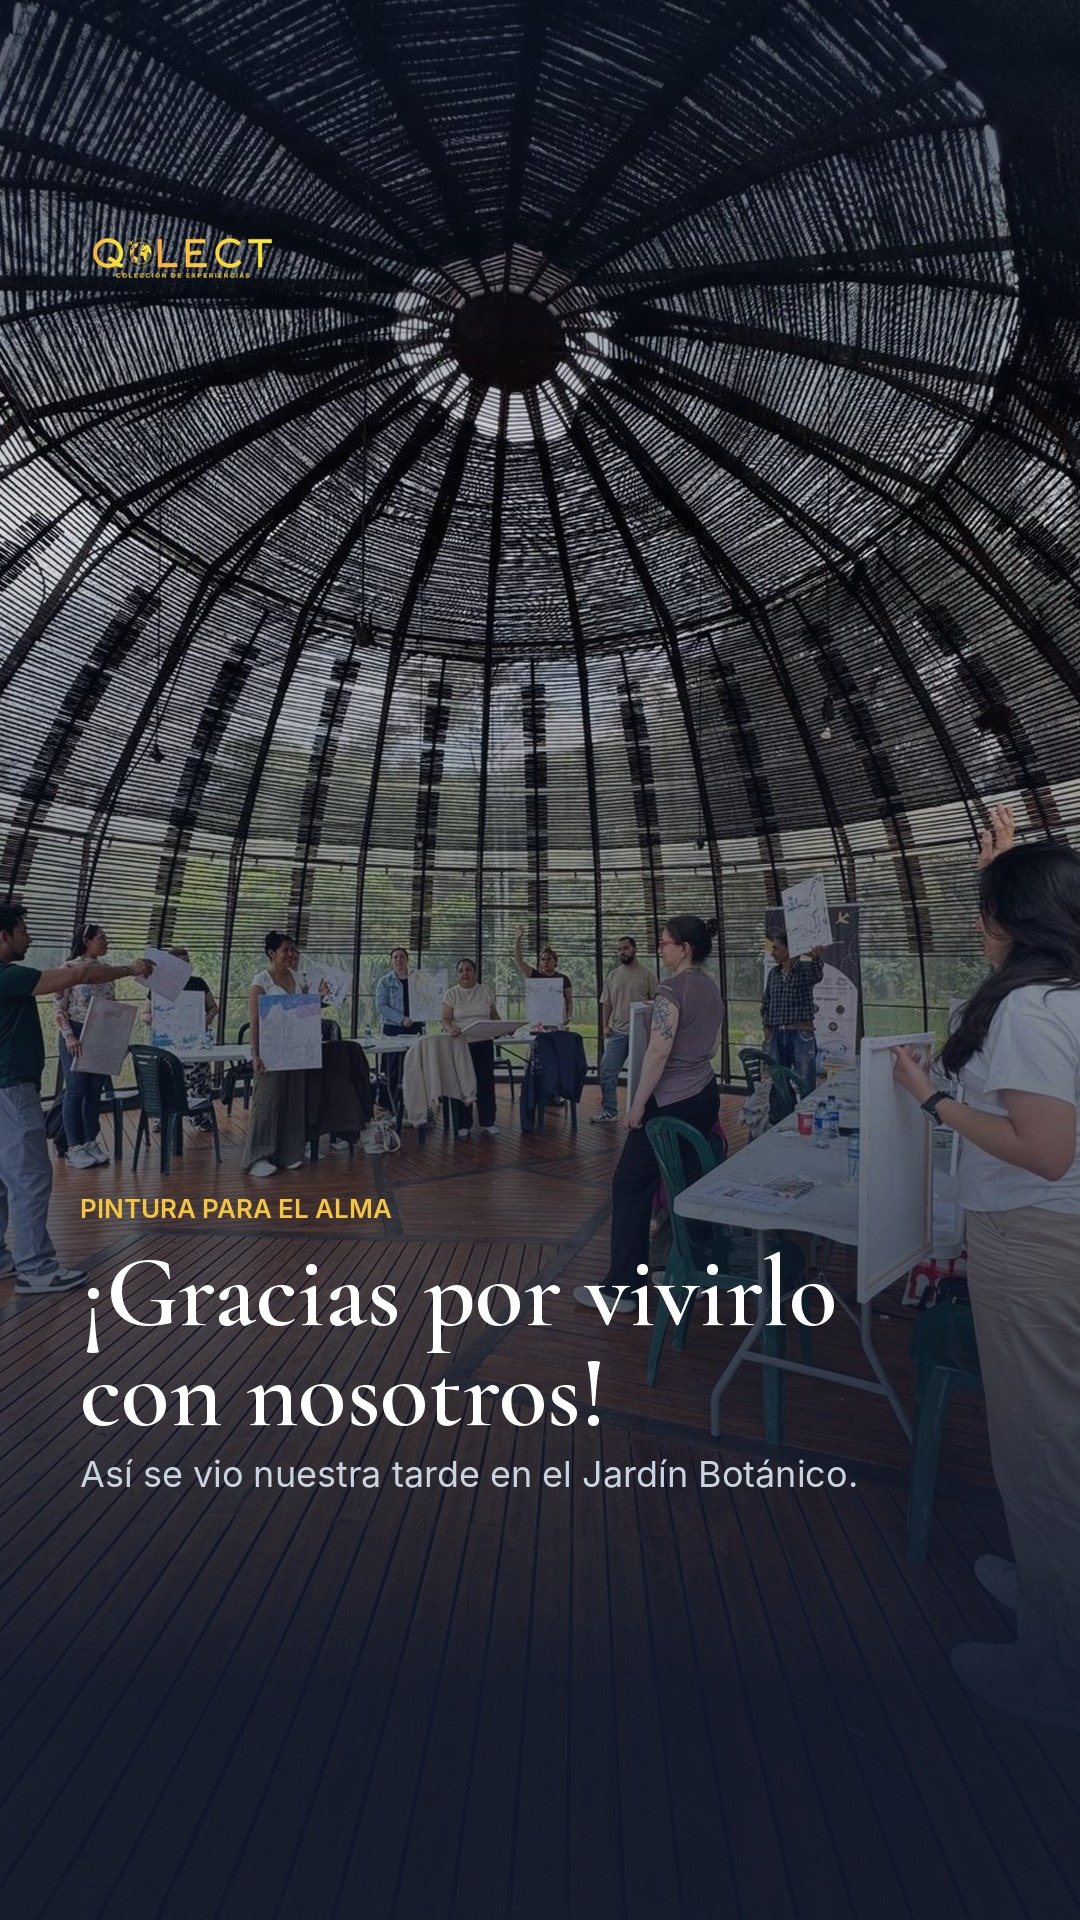
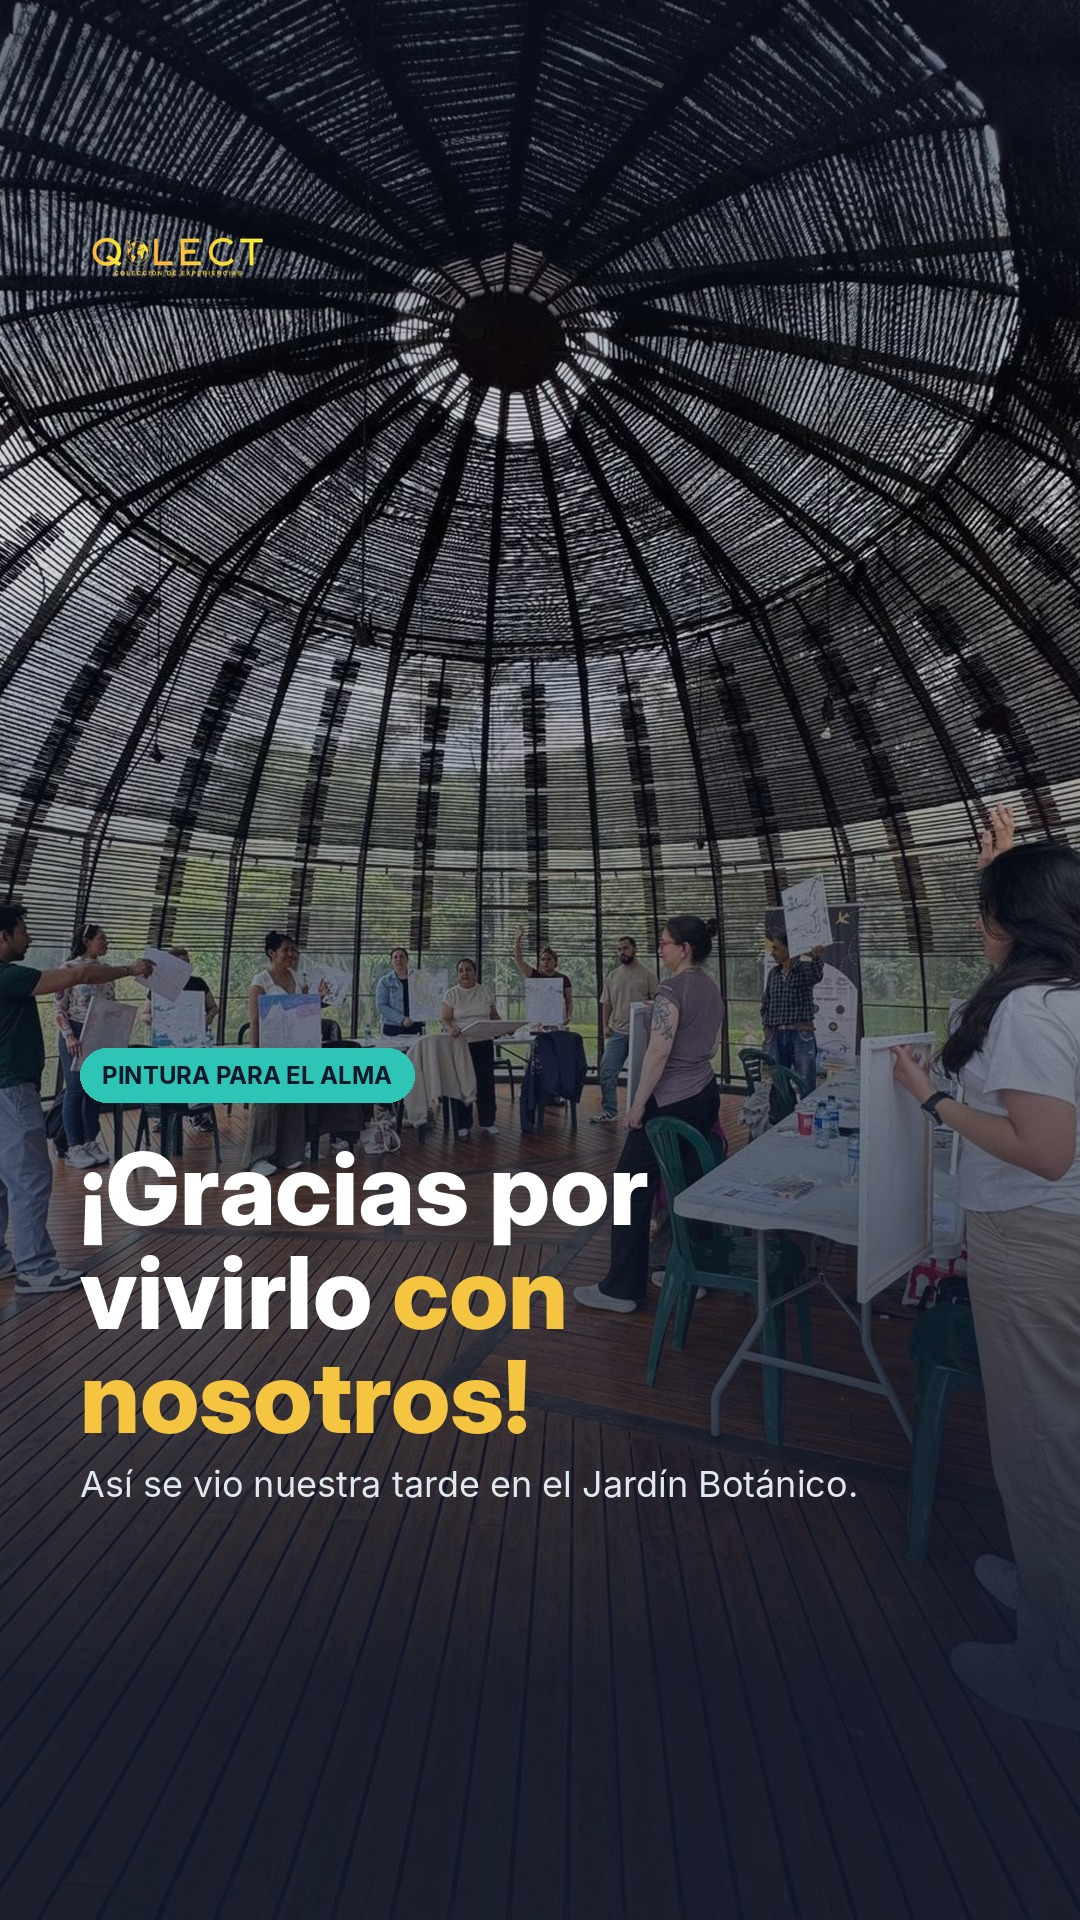
Redesign carousels and stories: bold sans typography, gold highlights, WhatsApp button CTA, remove price slide
Claude-Session: https://claude.ai/code/session_01TnjhFsbvNb79gpDAbArE4P

Changed region(s): [[0.0611, 0.5312, 0.7944, 0.7812], [0.0917, 0.125, 0.2444, 0.1562]]

diff --git a/qolect/pintura-para-el-alma/scripts/make_graphics.py b/qolect/pintura-para-el-alma/scripts/make_graphics.py
@@ -86,49 +86,105 @@ def paste_logo(canvas, x, y, width):
     canvas.alpha_composite(lg, (x, y))
 
 
-def dots(draw, w, y, n, i):
+DISPLAY = "/usr/share/fonts/opentype/inter/InterDisplay-{}.otf"
+
+
+def display(size, weight="ExtraBold"):
+    return ImageFont.truetype(DISPLAY.format(weight), size)
+
+
+def rich_lines(draw, text, font, maxw):
+    """Divide en líneas; las palabras entre *asteriscos* se marcan como destacadas."""
+    out, hl = [], False
+    for para in text.split("\n"):
+        line = []
+        for raw in para.split():
+            on = raw.startswith("*")
+            closes = "*" in raw[1:] if on else "*" in raw
+            word = raw.replace("*", "")
+            mark = hl or on
+            if closes:
+                hl = False
+            elif on:
+                hl = True
+            trial = " ".join(w for w, _ in line + [(word, mark)])
+            if line and draw.textlength(trial, font=font) > maxw:
+                out.append(line)
+                line = []
+            line.append((word, mark))
+        out.append(line)
+    return out
+
+
+def rich_block(draw, x, y, text, font, maxw, color=WHITE, accent=GOLD, spacing=1.04, measure=False):
+    lines = rich_lines(draw, text, font, maxw)
+    if measure:
+        return len(lines) * int(font.size * spacing)
+    sp = draw.textlength(" ", font=font)
+    for line in lines:
+        xx = x
+        for word, mark in line:
+            draw.text((xx, y), word, font=font, fill=accent if mark else color)
+            xx += draw.textlength(word, font=font) + sp
+        y += int(font.size * spacing)
+    return y
+
+
+def pill(draw, x, y, text, font, bg=TEAL, fg=NAVY, padx=22, pady=12):
+    tw = draw.textlength(text, font=font)
+    asc, desc = font.getmetrics()
+    h = asc + desc + 2 * pady
+    draw.rounded_rectangle((x, y, x + tw + 2 * padx, y + h), radius=h // 2, fill=bg)
+    draw.text((x + padx, y + pady), text, font=font, fill=fg)
+    return y + h
+
+
+def counter(draw, w, y, i, n, m=80):
     if n <= 1:
         return
-    gap, r = 26, 6
-    x0 = w // 2 - (n - 1) * gap // 2
-    for k in range(n):
-        c = GOLD if k == i else (255, 255, 255, 110)
-        draw.ellipse((x0 + k * gap - r, y - r, x0 + k * gap + r, y + r), fill=c)
+    f = sans(26, "Medium")
+    t = f"{i + 1:02d} / {n:02d}"
+    draw.text((w - m - draw.textlength(t, font=f), y), t, font=f, fill=(255, 255, 255, 220))
+
+
+def dots(draw, w, y, n, i):  # compatibilidad
+    counter(draw, w, y - 20, i, n)
 
 
 def photo_slide(foto, kicker, title, body, size=(1080, 1350), fy=0.5, idx=0, total=1,
                 title_size=92, swipe=False, safe_bottom=0):
     w, h = size
     img = cover(Image.open(FOTOS / foto).convert("RGB"), w, h, fy).convert("RGBA")
-    img.alpha_composite(gradient(w, h, int(h * (0.38 if h < 1500 else 0.22)), max_alpha=235 if h < 1500 else 245))
-    top = gradient(w, 320 if h < 1500 else 520, 0, max_alpha=170).transpose(Image.FLIP_TOP_BOTTOM)
+    img.alpha_composite(gradient(w, h, int(h * (0.36 if h < 1500 else 0.22)), max_alpha=240))
+    top = gradient(w, 300 if h < 1500 else 520, 0, max_alpha=150).transpose(Image.FLIP_TOP_BOTTOM)
     img.alpha_composite(top, (0, 0))
     d = ImageDraw.Draw(img)
     m = 80
-    tf, bf, kf = serif(title_size), sans(36), sans(26, "SemiBold")
-    total_h = (40 if kicker else 0) + block_height(d, title, tf, w - 2 * m, 1.0) + 20 \
-        + (block_height(d, body, bf, w - 2 * m, 1.35) if body else 0)
-    y = h - safe_bottom - 120 - total_h
+    tf, bf, kf = display(title_size), sans(36), sans(24, "Bold")
+    maxw = w - 2 * m
+    kh = (kf.getmetrics()[0] + kf.getmetrics()[1] + 24 + 26) if kicker else 0
+    total_h = kh + rich_block(d, 0, 0, title, tf, maxw, measure=True) \
+        + ((22 + block_height(d, body, bf, maxw, 1.35)) if body else 0)
+    y = h - safe_bottom - 110 - total_h
     if kicker:
-        d.text((m, y), kicker.upper(), font=kf, fill=GOLD)
-        y += 40
-    y = text_block(d, m, y, title, tf, WHITE, w - 2 * m, 1.0) + 20
+        y = pill(d, m, y, kicker.upper(), kf) + 26
+    y = rich_block(d, m, y, title, tf, maxw)
     if body:
-        text_block(d, m, y, body, bf, MUTED, w - 2 * m, 1.35)
-    paste_logo(img, m, 70 if safe_bottom == 0 else 230, 210)
+        text_block(d, m, y + 22, body, bf, (226, 232, 240), maxw, 1.35)
+    ty = 70 if safe_bottom == 0 else 230
+    paste_logo(img, m, ty, 200)
+    counter(d, w, ty + 14, idx, total, m)
     if swipe:
-        sf = sans(28, "Medium")
-        t = "Desliza  →"
-        d.text((w - m - d.textlength(t, font=sf), 92 if safe_bottom == 0 else 252), t, font=sf, fill=WHITE)
-    dots(d, w, h - 60, total, idx)
+        sf = sans(28, "SemiBold")
+        t = "Desliza →"
+        d.text((w - m - d.textlength(t, font=sf), h - safe_bottom - 72), t, font=sf, fill=GOLD)
     return img.convert("RGB")
 
 
 def text_slide(kicker, title, lines, footer=None, size=(1080, 1350), idx=0, total=1,
-               title_size=96, safe_top=0, safe_bottom=0):
+               title_size=96, safe_top=0, safe_bottom=0, button=None):
     w, h = size
     img = Image.new("RGBA", size, NAVY + (255,))
-    # degradado de marca diagonal suave
     g = Image.new("RGBA", size)
     gd = ImageDraw.Draw(g)
     for y in range(h):
@@ -136,34 +192,48 @@ def text_slide(kicker, title, lines, footer=None, size=(1080, 1350), idx=0, tota
         c = tuple(int(NAVY[i] * (1 - t) + PETROL[i] * t) for i in range(3))
         gd.line([(0, y), (w, y)], fill=c + (255,))
     img.alpha_composite(g)
+    # círculo decorativo de marca
+    deco = Image.new("RGBA", size, (0, 0, 0, 0))
+    ImageDraw.Draw(deco).ellipse((w - 420, h - 620 - safe_bottom, w + 380, h + 180 - safe_bottom),
+                                 outline=TEAL + (60,), width=3)
+    img.alpha_composite(deco)
     d = ImageDraw.Draw(img)
     m = 90
-    paste_logo(img, m, 80 + safe_top, 260)
-    tf, lf, kf = serif(title_size), sans(38 if h < 1500 else 48), sans(26 if h < 1500 else 32, "SemiBold")
-    y = 330 + safe_top
+    maxw = w - 2 * m
+    paste_logo(img, m, 80 + safe_top, 250)
+    counter(d, w, 96 + safe_top, idx, total, m)
+    tf = display(title_size)
+    lf = sans(38 if h < 1500 else 46)
+    kf = sans(24 if h < 1500 else 30, "Bold")
+    y = 300 + safe_top
     if kicker:
-        d.text((m, y), kicker.upper(), font=kf, fill=GOLD)
-        y += 50
-    y = text_block(d, m, y, title, tf, WHITE, w - 2 * m, 1.02) + 30
-    d.line([(m, y), (m + 120, y)], fill=TEAL, width=5)
-    y += 50
+        y = pill(d, m, y, kicker.upper(), kf) + 34
+    y = rich_block(d, m, y, title, tf, maxw) + 36
     for ln in lines:
         if ln.startswith("•"):
-            d.ellipse((m, y + 16, m + 12, y + 28), fill=TEAL)
-            y = text_block(d, m + 34, y, ln[1:].strip(), lf, WHITE, w - 2 * m - 34, 1.35) + 18
-        elif ln.startswith("#"):  # cifra destacada
+            d.rounded_rectangle((m, y + 14, m + 14, y + 28), radius=4, fill=GOLD)
+            y = text_block(d, m + 36, y, ln[1:].strip(), lf, WHITE, maxw - 36, 1.35) + 18
+        elif ln.startswith("#"):
             num, _, rest = ln[1:].partition("|")
-            nf = serif(120, "Bold")
-            d.text((m, y), num, font=nf, fill=GOLD, features=["lnum"])
-            y += 125
-            y = text_block(d, m, y, rest, lf, MUTED, w - 2 * m, 1.35) + 30
+            nf = display(130, "Black")
+            d.text((m, y), num, font=nf, fill=GOLD)
+            y += 140
+            y = text_block(d, m, y, rest, lf, (203, 213, 225), maxw, 1.35) + 34
         else:
-            y = text_block(d, m, y, ln, lf, MUTED, w - 2 * m, 1.35) + 18
+            y = text_block(d, m, y, ln, lf, (203, 213, 225), maxw, 1.35) + 18
+    by = h - 150 - safe_bottom
     if footer:
-        ff = sans(32, "SemiBold")
-        fy = h - 170 - safe_bottom - block_height(d, footer, ff, w - 2 * m, 1.4)
-        text_block(d, m, fy, footer, ff, TEAL, w - 2 * m, 1.4)
-    dots(d, w, h - 60, total, idx)
+        ff = sans(32 if h < 1500 else 38, "Medium")
+        fh = block_height(d, footer, ff, maxw, 1.4)
+        text_block(d, m, by - fh, footer, ff, (226, 232, 240), maxw, 1.4)
+        by -= fh + 30
+    if button:
+        bf = sans(36 if h < 1500 else 44, "Bold")
+        asc, desc = bf.getmetrics()
+        bh = asc + desc + 44
+        tw = d.textlength(button, font=bf)
+        d.rounded_rectangle((m, by - bh, m + tw + 80, by), radius=bh // 2, fill=GOLD)
+        d.text((m + 40, by - bh + 22), button, font=bf, fill=NAVY)
     return img.convert("RGB")
 
 
@@ -177,78 +247,79 @@ def save_set(name, slides):
     print(name, len(slides))
 
 
-CTA_FOOTER = "WhatsApp 300 471 1065\nqolect.co"
 
 
 def main():
+    CTA = dict(button="Escríbenos por WhatsApp", footer="300 471 1065 · qolect.co")
 
     # ---------- Carrusel 1: Así se vivió ----------
     c1 = [
-        ("foto-05.jpg", 0.55, "Pintura para el Alma · Jardín Botánico", "Así se vivió",
+        ("foto-05.jpg", 0.55, "Jardín Botánico · Bogotá", "Así se vivió\n*Pintura para\nel Alma*",
          "Una tarde para pintar, respirar y reconectar."),
-        ("foto-09.jpg", 0.6, "El lugar", "Un domo rodeado de naturaleza",
-         "El Jardín Botánico de Bogotá fue nuestro refugio para bajar el ritmo."),
-        ("foto-10.jpg", 0.55, "Primero, conectar", "Respirar antes de pintar",
+        ("foto-09.jpg", 0.6, "El lugar", "Un domo rodeado de *naturaleza*",
+         "El Jardín Botánico fue nuestro refugio para bajar el ritmo."),
+        ("foto-10.jpg", 0.55, "Primero", "*Respirar*\nantes de pintar",
          "Hicimos una pausa juntos para dejar la mente quieta."),
-        ("foto-14.jpg", 0.6, "El proceso", "Pintar con el alma",
+        ("foto-14.jpg", 0.6, "El proceso", "Pintar con el *alma*",
          "Cada color, guiado por el Mapa de la Consciencia."),
-        ("foto-12.jpg", 0.5, "Sin experiencia, sin presión", "Acompañados en cada trazo",
+        ("foto-12.jpg", 0.5, "Sin experiencia", "Acompañados en *cada trazo*",
          "Un guía nos llevó paso a paso de principio a fin."),
-        ("foto-11.jpg", 0.5, "Compartir la mesa", "Almuerzo, postre y buena conversación", ""),
-        ("foto-01.jpg", 0.45, "El final", "Cada lienzo, una historia",
+        ("foto-11.jpg", 0.5, "Compartir", "Almuerzo, postre y *buena conversación*", ""),
+        ("foto-01.jpg", 0.45, "El final", "Cada lienzo,\n*una historia*",
          "Nos fuimos con una obra propia y el alma más liviana."),
     ]
     n1 = len(c1) + 1
     slides = [photo_slide(f, k, t, b, fy=fy, idx=i, total=n1, swipe=(i == 0),
-                          title_size=110 if i == 0 else 88)
+                          title_size=104 if i == 0 else 90)
               for i, (f, fy, k, t, b) in enumerate(c1)]
-    slides.append(text_slide("¿Te lo perdiste?", "Vuelve pronto.\nTe guardamos un lugar.",
+    slides.append(text_slide("¿Te lo perdiste?", "Vuelve pronto.\nTe guardamos\n*un lugar.*",
                              ["Escríbenos y te avisamos primero de la próxima edición.",
                               "Explora. Siente. Despierta."],
-                             footer=CTA_FOOTER, idx=n1 - 1, total=n1))
+                             idx=n1 - 1, total=n1, title_size=100, **CTA))
     save_set("carrusel-1-asi-se-vivio", slides)
 
     # ---------- Carrusel 2: Qué incluye ----------
     c2 = [
-        ("foto-02.jpg", 0.5, "Experiencias Qolect", "¿Qué incluye Pintura para el Alma?", ""),
-        ("foto-09.jpg", 0.6, "01", "Un lugar que inspira", "El domo del Jardín Botánico de Bogotá."),
-        ("foto-07.jpg", 0.75, "02", "Tu kit de arte", "Lienzo numerado, pinturas, pinceles y la guía del Mapa de la Consciencia."),
-        ("foto-10.jpg", 0.55, "03", "Guía y meditación", "Un facilitador te acompaña. No necesitas saber pintar."),
-        ("foto-08.jpg", 0.5, "04", "Almuerzo y postre", "Comida, hidratación y torta de cuajada artesanal de Baruj Shefa."),
-        ("foto-03.jpg", 0.45, "05", "Tu obra para llevar", "Te vas con tu lienzo y con una comunidad nueva."),
+        ("foto-02.jpg", 0.5, "Experiencias Qolect", "¿Qué incluye\n*Pintura para\nel Alma?*", ""),
+        ("foto-09.jpg", 0.6, "01 · El lugar", "Un espacio\nque *inspira*", "El domo del Jardín Botánico de Bogotá."),
+        ("foto-07.jpg", 0.75, "02 · Materiales", "Tu *kit de arte*", "Lienzo numerado, pinturas, pinceles y la guía del Mapa de la Consciencia."),
+        ("foto-10.jpg", 0.55, "03 · Acompañamiento", "Guía y *meditación*", "Un facilitador te acompaña. No necesitas saber pintar."),
+        ("foto-08.jpg", 0.5, "04 · Alimentación", "Almuerzo y *postre*", "Comida, hidratación y torta de cuajada artesanal de Baruj Shefa."),
+        ("foto-03.jpg", 0.45, "05 · El recuerdo", "Tu obra *para llevar*", "Te vas con tu lienzo y con una comunidad nueva."),
     ]
     n2 = len(c2) + 1
     slides = [photo_slide(f, k, t, b, fy=fy, idx=i, total=n2, swipe=(i == 0),
-                          title_size=100 if i == 0 else 92)
+                          title_size=100 if i == 0 else 96)
               for i, (f, fy, k, t, b) in enumerate(c2)]
-    slides.append(text_slide("Todo en un solo plan", "Desde $169.900",
-                             ["• Precio cerrado, sin sorpresas", "• Cupos limitados",
-                              "• Reserva en línea o con un asesor"],
-                             footer=CTA_FOOTER, idx=n2 - 1, total=n2, title_size=120))
+    slides.append(text_slide("Próxima edición", "¿Quieres *vivirla?*",
+                             ["Escríbenos y te avisamos primero de la próxima edición.",
+                              "Explora. Siente. Despierta."],
+                             idx=n2 - 1, total=n2, title_size=110, **CTA))
     save_set("carrusel-2-que-incluye", slides)
 
     # ---------- Carrusel 3: Empresas (B2B, también para LinkedIn) ----------
     n3 = 6
     slides = [
-        photo_slide("foto-10.jpg", "Qolect Empresas", "¿Y si el bienestar de tu equipo se viviera así?", "",
-                    fy=0.55, idx=0, total=n3, swipe=True, title_size=96),
-        photo_slide("foto-14.jpg", "Bienestar real", "Una pausa que se siente",
+        photo_slide("foto-10.jpg", "Qolect Empresas", "¿Y si el bienestar\nde tu equipo se\n*viviera así?*", "",
+                    fy=0.55, idx=0, total=n3, swipe=True, title_size=94),
+        photo_slide("foto-14.jpg", "Bienestar real", "Una pausa\nque *se siente*",
                     "Arte y meditación para bajar el estrés y unir equipos, sin necesitar experiencia previa.",
                     fy=0.6, idx=1, total=n3),
-        photo_slide("foto-11.jpg", "Nosotros ponemos todo", "Tú solo llegas",
+        photo_slide("foto-11.jpg", "Nosotros ponemos todo", "Tú *solo llegas*",
                     "Lugar, materiales, guía, alimentación y logística completa.",
                     fy=0.5, idx=2, total=n3),
-        text_slide("Ya confían en Qolect", "Un beneficio que tu equipo sí usa",
+        text_slide("Ya confían en Qolect", "Un beneficio que tu equipo *sí usa*",
                    ["#+3.980|empleados con el beneficio Qolect activo",
                     "#10+|experiencias diseñadas y operadas por nosotros"],
-                   footer="Convenios activos: Linde Praxair Colombia · Fonprax", idx=3, total=n3, title_size=80),
-        photo_slide("foto-04.jpg", "Convenios a tu medida", "Grupos desde 10 personas",
+                   footer="Convenios activos: Linde Praxair Colombia · Fonprax", idx=3, total=n3, title_size=78),
+        photo_slide("foto-04.jpg", "Convenios a tu medida", "Grupos desde\n*10 personas*",
                     "Cotización en 24 horas, portal con la marca de tu empresa y tarifas preferenciales.",
                     fy=0.45, idx=4, total=n3),
-        text_slide("Hablemos", "Lleva esta experiencia a tu empresa",
+        text_slide("Hablemos", "Lleva esta\nexperiencia a\n*tu empresa*",
                    ["• Team building y días de bienestar", "• Viajes de incentivo",
                     "• Convenios para fondos de empleados"],
-                   footer="qolect.co/empresas\nreservas@qolect.co", idx=5, total=n3, title_size=90),
+                   button="Agenda una llamada", footer="qolect.co/empresas · reservas@qolect.co",
+                   idx=5, total=n3, title_size=86),
     ]
     save_set("carrusel-3-empresas", slides)
 
@@ -256,23 +327,22 @@ def main():
     S = (1080, 1920)
     SAFE_T, SAFE_B = 160, 300
     stories = [
-        photo_slide("foto-05.jpg", "Pintura para el Alma", "¡Gracias por vivirlo con nosotros!",
+        photo_slide("foto-05.jpg", "Pintura para el Alma", "¡Gracias por\nvivirlo *con\nnosotros!*",
                     "Así se vio nuestra tarde en el Jardín Botánico.", size=S, fy=0.5,
                     title_size=100, safe_bottom=SAFE_B),
-        photo_slide("foto-01.jpg", "Cuéntanos", "¿Qué te llevaste de esta tarde?",
-                    "", size=S, fy=0.35, title_size=96, safe_bottom=SAFE_B + 120),
-        photo_slide("foto-12.jpg", "Encuesta", "¿Repetirías la experiencia?",
-                    "", size=S, fy=0.4, title_size=96,
-                    safe_bottom=SAFE_B + 120),
-        photo_slide("foto-08.jpg", "Detalles que importan", "Lo dulce también fue parte del plan",
+        photo_slide("foto-01.jpg", "Cuéntanos", "¿Qué te llevaste de *esta tarde?*",
+                    "", size=S, fy=0.35, title_size=100, safe_bottom=SAFE_B + 120),
+        photo_slide("foto-12.jpg", "Encuesta", "¿Repetirías la *experiencia?*",
+                    "", size=S, fy=0.4, title_size=100, safe_bottom=SAFE_B + 120),
+        photo_slide("foto-08.jpg", "Detalles que importan", "Lo dulce también fue *parte del plan*",
                     "Torta de cuajada artesanal de Baruj Shefa.", size=S, fy=0.5,
-                    title_size=92, safe_bottom=SAFE_B),
-        photo_slide("foto-13.jpg", "Pintar con el alma", "Un momento para ti",
-                    "Sin pantallas, sin prisa. Solo color y calma.", size=S, fy=0.5,
                     title_size=96, safe_bottom=SAFE_B),
-        text_slide("Próxima edición", "¿Quieres vivirla?",
+        photo_slide("foto-13.jpg", "Pintar con el alma", "Un momento\n*para ti*",
+                    "Sin pantallas, sin prisa. Solo color y calma.", size=S, fy=0.5,
+                    title_size=100, safe_bottom=SAFE_B),
+        text_slide("Próxima edición", "¿Quieres *vivirla?*",
                    ["Toca el enlace y escríbenos por WhatsApp.", "Te avisamos primero."],
-                   footer="qolect.co", size=S, title_size=120, safe_top=SAFE_T, safe_bottom=SAFE_B),
+                   footer="qolect.co", size=S, title_size=130, safe_top=SAFE_T, safe_bottom=SAFE_B + 200),
     ]
     save_set("historias", stories)
 

diff --git a/qolect/pintura-para-el-alma/PLAN-DE-CONTENIDO.md b/qolect/pintura-para-el-alma/PLAN-DE-CONTENIDO.md
@@ -65,9 +65,9 @@ Después del 4-dic: crear la historia destacada **"Pintura para el Alma"** con H
 > #Qolect #PinturaParaElAlma #Testimonio #Bienestar #SaludEmocional #Bogota
 
 ### Carrusel 2: Qué incluye (lun 30-nov)
-> ¿Qué incluye Pintura para el Alma? Todo. 🎨
-> Lugar, kit de arte, guía, meditación, almuerzo, postre y tu obra para llevar. Precio cerrado y cupos limitados.
-> Reserva en qolect.co o por WhatsApp 300 471 1065.
+> ¿Qué incluye Pintura para el Alma? 🎨
+> Lugar, kit de arte, guía, meditación, almuerzo, postre y tu obra para llevar.
+> ¿Quieres vivir la próxima edición? Escríbenos por WhatsApp al 300 471 1065.
 > Guarda este post para cuando necesites un plan distinto 📌
 >
 > #Qolect #ExperienciasQolect #PlanesEnBogota #Bienestar #RegaloDiferente
@@ -102,7 +102,6 @@ Después del 4-dic: crear la historia destacada **"Pintura para el Alma"** con H
 
 ## Antes de publicar (checklist)
 - [ ] **Autorización de imagen:** confirmar que las personas que aparecen, sobre todo las de los testimonios, aceptan salir en redes.
-- [ ] Confirmar que el precio **"Desde $169.900"** (tomado de qolect.co) aplica para la próxima edición.
 - [ ] Etiquetar al Jardín Botánico de Bogotá y a Baruj Shefa con sus cuentas oficiales.
 - [ ] Reel 1: agregar la música en la app (ver nota arriba).
 
